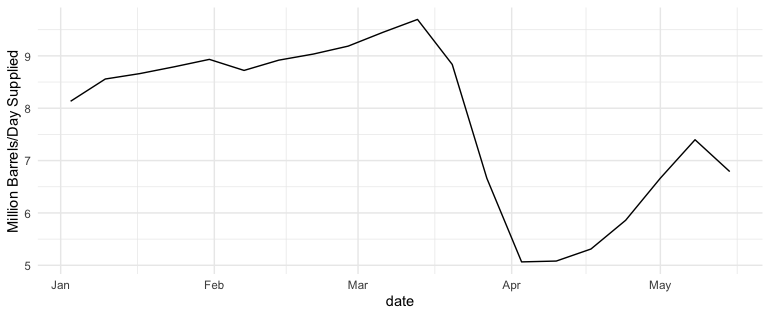
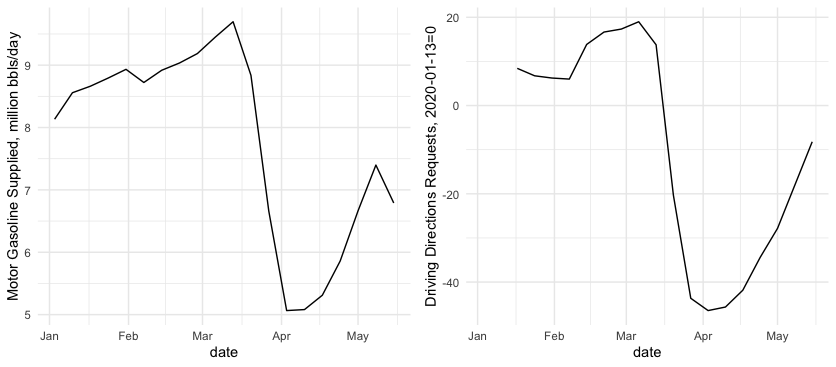
Added facet plot

diff --git a/_posts/2020-05-27-gasoline-mobility-2020.md b/_posts/2020-05-27-gasoline-mobility-2020.md
@@ -15,6 +15,21 @@ Plotting the two series against one another indicated a strong relationship:
 
 Fitting a model to the two series (I'm just exploring here, so don't anyone get wound up about the lack of sophistication of this model) indicates a very strong relationship--changes in the mobility index explain 84.2% of the changes in gasoline supplied on a weekly basis, and each one point change in the Mobility Index results in a 0.8% change in gasoline usage; and these results are very highly statistically significant. What is the practical implication? As Apple is releasing its data each day, whereas the EIA data is released only weekly, with a five day lag (each Wednesday's release is for the week ended the previous Friday). Using this quite simple model, it would permit an analyst to create potentially more accurate forecasts of gasoline consumption, ahead of the EIA release each week.
 
+Regression Results for the model `ln(gasoline) = b_0 + b_1 * driving + e`
+```
+> moderndive::get_regression_table(gas_drive)
+# A tibble: 2 x 7
+  term      estimate std_error statistic p_value lower_ci upper_ci
+  <chr>        <dbl>     <dbl>     <dbl>   <dbl>    <dbl>    <dbl>
+1 intercept    2.10      0.024     88.9        0    2.06      2.15
+2 driving      0.008     0.001      9.24       0    0.006     0.01
+> moderndive::get_regression_summaries(gas_drive)
+# A tibble: 1 x 8
+  r_squared adj_r_squared     mse   rmse sigma statistic p_value    df
+      <dbl>         <dbl>   <dbl>  <dbl> <dbl>     <dbl>   <dbl> <dbl>
+1     0.842         0.832 0.00767 0.0876 0.093      85.4       0     2
+```
+
 Code:
 ```
 # I'm going to do some plotting and analysis of 
@@ -23,6 +38,7 @@ Code:
 library(tidyverse)
 library(eia)
 library(lubridate)
+
 
 # Apple Mobility Data, Downloaded from here:
 # https://github.com/ActiveConclusion/COVID19_mobility
@@ -48,33 +64,13 @@ mobility_gas <- gas_supplied %>%
   left_join(us_mobility,by="week") %>%
   mutate(lngas = log(gas))
 
-ggplot(mobility_gas) + 
-  geom_line(aes(x=date,y=gas), size=2) + 
-  geom_line(aes(x=date,y=driving),color="red",size=2) + 
-  labs(y="Mobility Index, Million Bbbls/Day",
-       x="2020") +
-  geom_text(aes(label="Gasoline Usage (Million bbls/day)", x=ymd("2020-01-01"), y=-20), color="black", size=7, hjust=0) +
-  geom_text(aes(label="Apple Mobility Index", x=ymd("2020-01-01"), y=-30), color="red", size=7, hjust=0) +
-  theme_light()
+p1 <- mobility_gas %>% ggplot(aes(x=date,y=gas)) + geom_line() + theme_minimal() + labs(y="Motor Gasoline Supplied, million bbls/day")
+p2 <- mobility_gas %>% ggplot(aes(x=date,y=driving)) + geom_line() + theme_minimal() + labs(y="Driving Directions Requests, 2020-01-13=0")
 
-ggplot(gas_supplied, aes(x=date,y=gas)) + geom_line() + theme_minimal() + labs(y="Million Barrels/Day Supplied")
+gridExtra::grid.arrange(p1,p2,ncol=2)
 
 gas_drive <- lm(lngas ~ driving, data=mobility_gas)
 moderndive::get_regression_table(gas_drive)
 moderndive::get_regression_summaries(gas_drive)
 ```
 
-Regression Results for the model `ln(gasoline) = b_0 + b_1 * driving + e`
-```
-> moderndive::get_regression_table(gas_drive)
-# A tibble: 2 x 7
-  term      estimate std_error statistic p_value lower_ci upper_ci
-  <chr>        <dbl>     <dbl>     <dbl>   <dbl>    <dbl>    <dbl>
-1 intercept    2.10      0.024     88.9        0    2.06      2.15
-2 driving      0.008     0.001      9.24       0    0.006     0.01
-> moderndive::get_regression_summaries(gas_drive)
-# A tibble: 1 x 8
-  r_squared adj_r_squared     mse   rmse sigma statistic p_value    df
-      <dbl>         <dbl>   <dbl>  <dbl> <dbl>     <dbl>   <dbl> <dbl>
-1     0.842         0.832 0.00767 0.0876 0.093      85.4       0     2
-```
